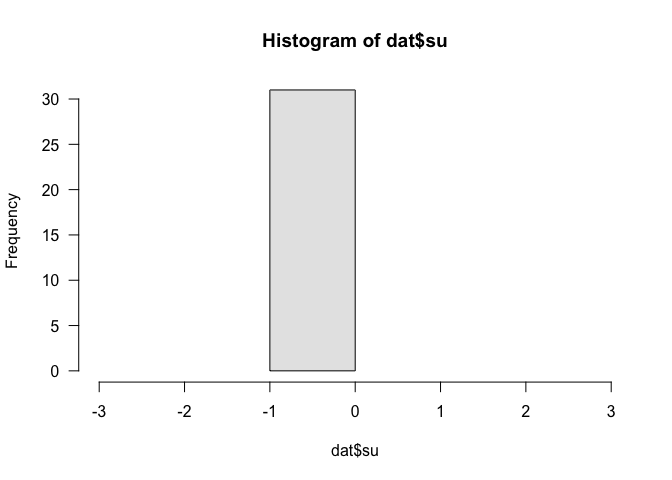
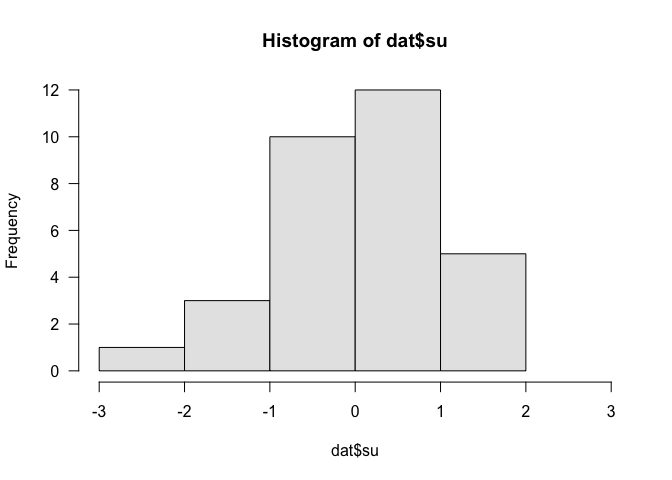
demos: fix demo 03-normal

diff --git a/demos/03-normal-curve.md b/demos/03-normal-curve.md
@@ -72,22 +72,19 @@ summary(dat$return)
 
 ``` r
 # mean
-x_mean <- (dat$return)
+x_mean <- mean(dat$return)
 x_mean
 ```
 
-    ##  [1]  -4.38  21.83  11.96   1.38  13.69  32.39  16.00   2.11  15.06  26.46
-    ## [11] -37.00   5.49  15.79   4.91  10.88  28.68 -22.10 -11.89  -9.10  21.04
-    ## [21]  28.58  33.36  22.96  37.58   1.32  10.08   7.62  30.47  -3.10  31.69
-    ## [31]  16.61
+    ## [1] 11.62484
 
 ``` r
 # sd
-x_sd <- mean(dat$return)
+x_sd <- sd(dat$return)
 x_sd
 ```
 
-    ## [1] 11.62484
+    ## [1] 17.21708
 
 ``` r
 hist(dat$return, col = 'gray90', breaks = 8, las = 1)
@@ -102,13 +99,13 @@ dat$su <- (dat$return - x_mean) / x_sd
 head(dat)
 ```
 
-    ##   year return su
-    ## 1 2018  -4.38  0
-    ## 2 2017  21.83  0
-    ## 3 2016  11.96  0
-    ## 4 2015   1.38  0
-    ## 5 2014  13.69  0
-    ## 6 2013  32.39  0
+    ##   year return         su
+    ## 1 2018  -4.38 -0.9295910
+    ## 2 2017  21.83  0.5927349
+    ## 3 2016  11.96  0.0194668
+    ## 4 2015   1.38 -0.5950394
+    ## 5 2014  13.69  0.1199484
+    ## 6 2013  32.39  1.2060795
 
 ``` r
 hist(dat$su, col = 'gray90', xlim = c(-3, 3), breaks = 5, las = 1)
